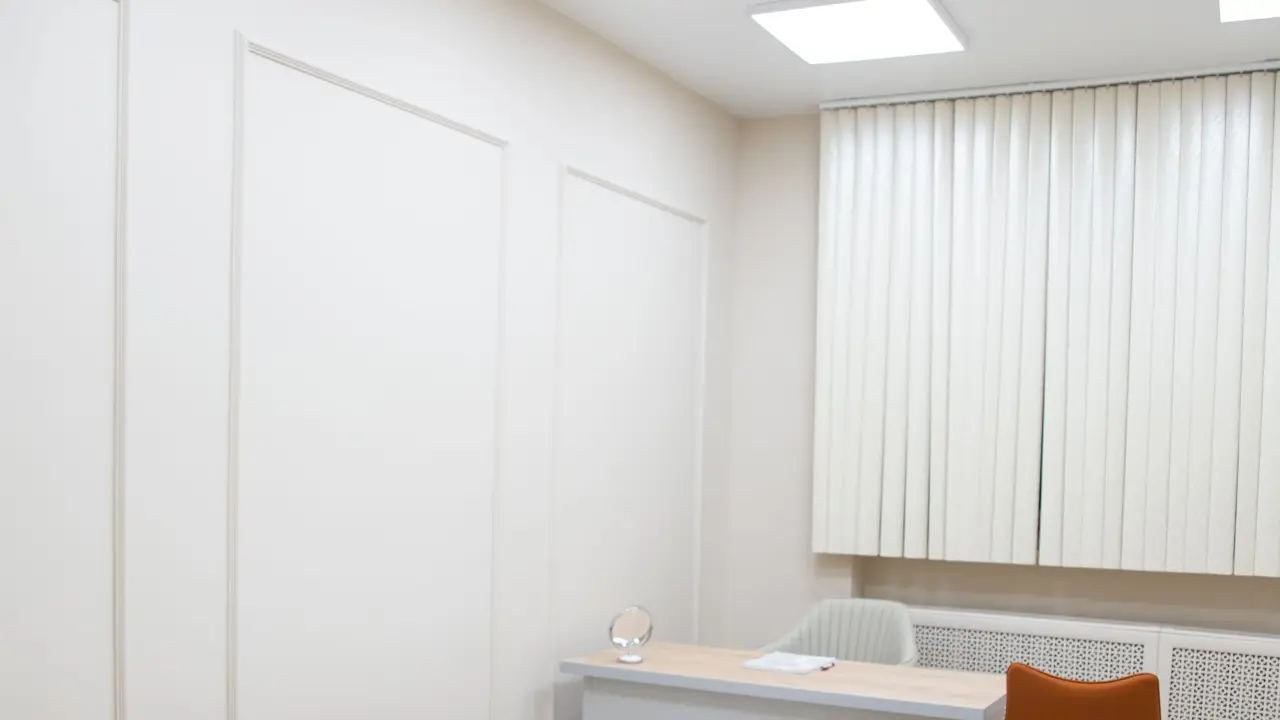
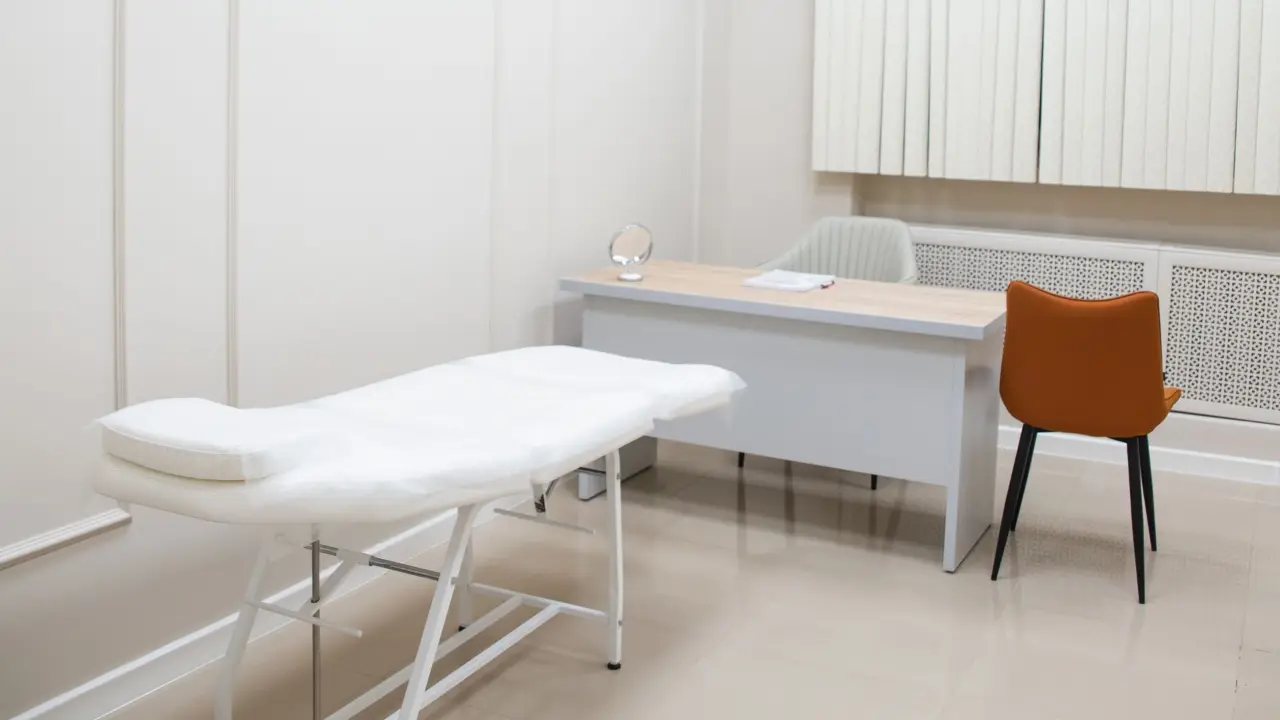
fix(clinique): deux fenêtres posées sur du mur nu, et l'état des douze secteurs
`clinique-3` rendait deux mètres de cloison blanche : la table d'examen
était sous le cadre. `clinique-7` rendait un plafond suspendu : le
corridor était dessous. Les deux sources sont en PORTRAIT, et une
fenêtre 16/9 n'y prend que 37 % de la hauteur — il faut la poser sur le
sujet, pas au milieu. C'est la quatrième fois que ce piège coûte une
reprise ; il est écrit en 58.

Vérifié à l'agrandissement ×6 : le texte sur la torche de `photo-1` est
du bruit, pas une marque.

La table d'état passe de cinq à sept secteurs branchés. Les cinq clés
restantes sont déjà inscrites dans les deux outils et leurs photos sont
générées, regardées et commitées — il ne reste qu'à écrire les sites.

diff --git a/archives/rapports/REFONTE-CHECKLIST.md b/archives/rapports/REFONTE-CHECKLIST.md
@@ -7,18 +7,27 @@ pas la mémoire d'une session.
 
 | Secteur | Site | Branché | Commit |
 |---|---|---|---|
-| Restauration | `restau` (section 03) | **oui** | `2f2497e` |
-| Garage et mécanique | `demo-carroserie` (section 03) | **oui** | `9633a98` |
-| Paysagement et déneigement | `MV-deneigement` (section 03) | **oui** | `741eaeb` |
-| Construction et rénovation | `demos-secteurs/construction/` | **oui** | `1e5f2ff` + `9f341ba` |
-| Immobilier | `demos-secteurs/immobilier/` | **oui** | `aa701fc` + `9f341ba` |
-| Boutique en ligne | — | non | — |
-| Coiffure et esthétique | — | non | — |
-| Gym et entraînement | — | non | — |
-| Hébergement et tourisme | — | non | — |
-| Clinique et santé | — | non | — |
-| Services juridiques | — | non | — |
-| Photographe et créatif | — | non | — |
+| Restauration | `restau` (section 03) | **oui** | `2f2497e` — vérifié 2026-08-01 |
+| Garage et mécanique | `demo-carroserie` (section 03) | **oui** | `9633a98` — vérifié 2026-08-01 |
+| Paysagement et déneigement | `MV-deneigement` (section 03) | **oui** | `741eaeb` — vérifié 2026-08-01 |
+| Construction et rénovation | `demos-secteurs/construction/` | **oui, refait au standard** | `9014550` |
+| Immobilier | `demos-secteurs/immobilier/` | **oui, refait au standard** | `3ff737f` |
+| Boutique en ligne | `demos-secteurs/boutique/` | **oui** | `ae2a5a1` |
+| Coiffure et esthétique | `demos-secteurs/coiffure/` | **oui** | `90cf2c5` |
+| Gym et entraînement | `demos-secteurs/gym/` | photos prêtes (8) — site en écriture | — |
+| Hébergement et tourisme | `demos-secteurs/hotel/` | photos prêtes (8) — site en écriture | — |
+| Clinique et santé | `demos-secteurs/clinique/` | photos prêtes (7) — site à écrire | — |
+| Services juridiques | `demos-secteurs/juridique/` | photos prêtes (5) — site à écrire | — |
+| Photographe et créatif | `demos-secteurs/photo/` | photos prêtes (5) — site à écrire | — |
+
+**Les clés sont déjà inscrites** dans `PROJETS` de `demos-capture.mjs` et
+`SECTEURS` de `secteurs-markup.mjs` pour les douze. Les photos des cinq
+derniers sont générées, regardées une par une et commitées : il ne reste
+qu'à écrire le site, le capturer et le brancher.
+
+**La barre à tenir est dans `demos-secteurs/STANDARD.md`.** Les quatre
+sites déjà faits au standard sont les étalons de NIVEAU — on ne les copie
+pas, on ne les redescend pas.
 | *Votre industrie ici* | *carte de proposition* | *sans objet* | — |
 
 **La chaîne, dans l'ordre :**
